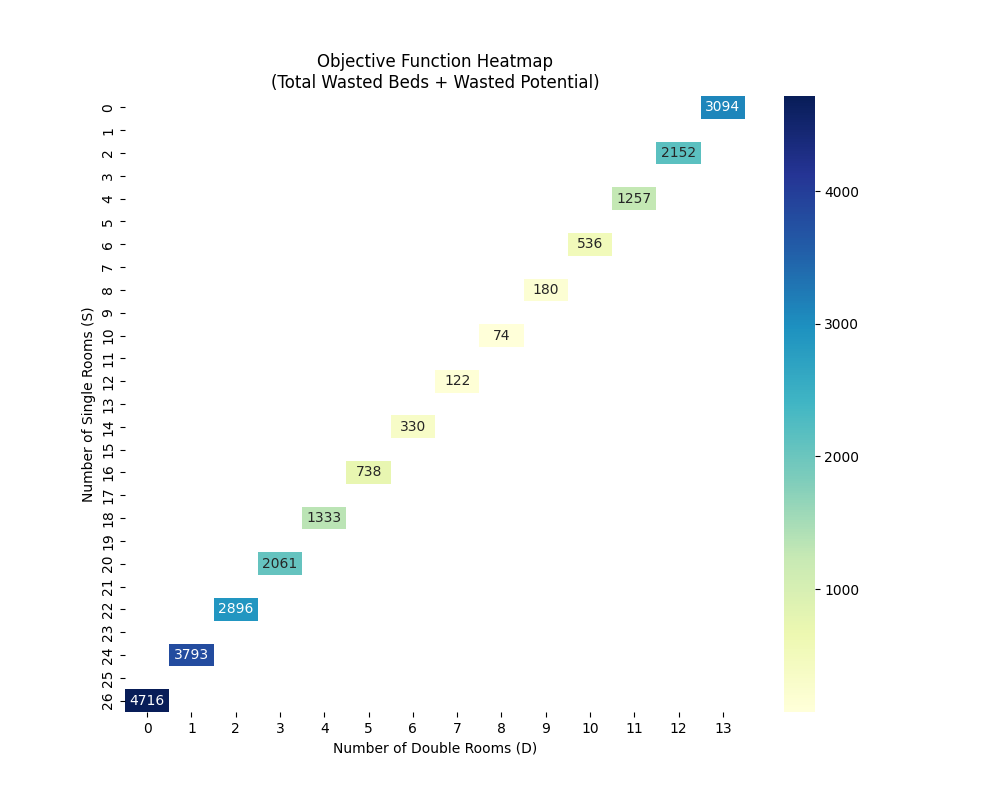
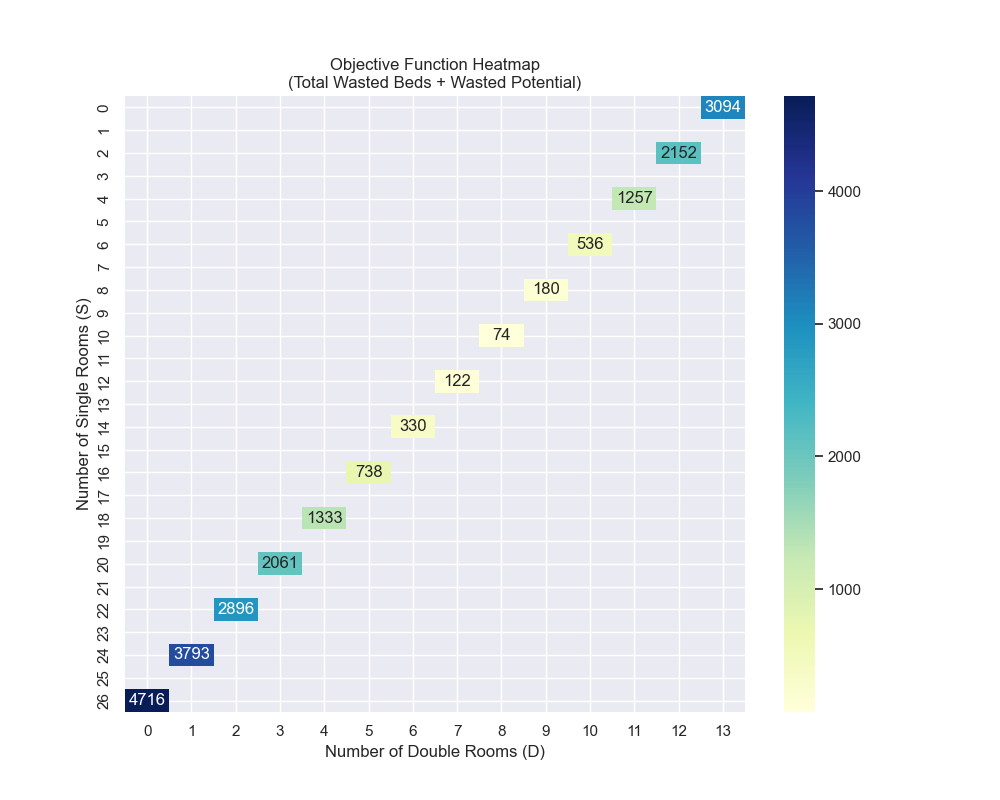
fixing labels, adding another plot to better show data wasted_patients_plot

diff --git a/optimizer_visualizations.py b/optimizer_visualizations.py
@@ -1,5 +1,9 @@
 import pandas as pd
 import numpy as np
+import seaborn as sns
+import matplotlib.pyplot as plt
+
+sns.set()
 
 # Load the historical data
 data_path = 'data/final_census_data.csv'
@@ -14,15 +18,18 @@ recent_year_data = data[data['Date'].dt.year.isin([2023, 2024])]
 single_rooms = np.arange(0, 27)
 double_rooms = np.arange(0, 14)
 
-# Initialize a matrix to store the objective function values
+# Initialize matrices to store the objective function values, singles in double, and doubles in single
 objective_values = np.full((len(single_rooms), len(double_rooms)), np.nan)
+total_singles_in_double_values = np.full((len(single_rooms), len(double_rooms)), np.nan)
+total_doubles_in_single_values = np.full((len(single_rooms), len(double_rooms)), np.nan)
 
-
-# Iterate through each configuration and calculate the objective function
+# Iterate through each configuration and calculate the objective function and inefficiencies
 for i, S in enumerate(single_rooms):
     for j, D in enumerate(double_rooms):
         if 2 * D + S == 26:  # Feasibility condition
-            total_wasted_beds = 0
+            total_waste = 0
+            total_singles_in_double = 0
+            total_doubles_in_single = 0
 
             for _, row in recent_year_data.iterrows():
                 single_room_patients = row['Total Single Room Patients']
@@ -34,54 +41,64 @@ for i, S in enumerate(single_rooms):
                 # Wasted potential double room space when double patients are too many
                 wasted_double_in_single = max(0, double_room_patients - 2 * D)
 
-                total_wasted_beds += wasted_single_in_double + wasted_double_in_single
+                # Total wasted single patients in double rooms
+                total_singles_in_double += wasted_single_in_double
 
-            # Objective function is total wasted beds
-            objective_values[i, j] = total_wasted_beds
+                # Total wasted double patients in single rooms
+                total_doubles_in_single += wasted_double_in_single
 
-import seaborn as sns
-import matplotlib.pyplot as plt
+                # Total waste = wasted single in double + wasted double in single
+                total_waste += wasted_single_in_double + wasted_double_in_single
 
-# Create the heatmap
+            # Store the total wasted beds, singles in double, and doubles in single
+            objective_values[i, j] = total_waste
+            total_singles_in_double_values[i, j] = total_singles_in_double
+            total_doubles_in_single_values[i, j] = total_doubles_in_single
+
+# Create a heatmap for the total wasted beds
 plt.figure(figsize=(10, 8))
 sns.heatmap(objective_values, annot=True, fmt=".0f", cmap="YlGnBu", xticklabels=double_rooms, yticklabels=single_rooms)
-
-# Add labels and title
 plt.title("Objective Function Heatmap\n(Total Wasted Beds + Wasted Potential)")
 plt.xlabel("Number of Double Rooms (D)")
 plt.ylabel("Number of Single Rooms (S)")
-
-# Save and show the plot
 plt.savefig('output/optimizer_heatmap.png')
-# plt.show()
 
-
-# Extract the relevant data from the heatmap
+# Extract configurations for single/double rooms and wasted beds
 configurations = [(S, D) for S in single_rooms for D in double_rooms if 2 * D + S == 26]
-wasted_beds = [objective_values[i, j] for i, S in enumerate(single_rooms) for j, D in enumerate(double_rooms) if 2 * D + S == 26]
+wasted_beds_space = [objective_values[i, j] for i, S in enumerate(single_rooms) for j, D in enumerate(double_rooms) if 2 * D + S == 26]
+total_singles_in_double_space = [total_singles_in_double_values[i, j] for i, S in enumerate(single_rooms) for j, D in enumerate(double_rooms) if 2 * D + S == 26]
+total_doubles_in_single_space = [total_doubles_in_single_values[i, j] for i, S in enumerate(single_rooms) for j, D in enumerate(double_rooms) if 2 * D + S == 26]
 
-# Create a bar chart
+# Create a bar chart for wasted beds
 plt.figure(figsize=(12, 6))
-plt.bar([f"S: {S}, D: {D}" for S, D in configurations], wasted_beds, color='skyblue')
+plt.bar([f"S: {S}, D: {D}" for S, D in configurations], wasted_beds_space, color='skyblue')
 plt.xticks(rotation=45, ha='right')
 plt.xlabel("Room Configurations (Single Rooms, Double Rooms)")
-plt.ylabel("Total Wasted Beds")
-plt.title("Wasted Beds vs. Room Configurations")
-# plt.show()
+plt.ylabel("Inefficiency (Wasted Beds + Wasted Potential)")
+plt.title("Inefficiency vs. Room Configurations")
 plt.savefig('output/optimizer_bar_chart.png')
 
-
 # Calculate efficiency for each configuration
-efficiency = [(26 - wb) / 26 for wb in wasted_beds]
+total_available_beds = len(recent_year_data) * 26
+efficiency = [(total_available_beds - wb) / total_available_beds for wb in wasted_beds_space]
 
-# Create a line plot
+# Create a line plot for efficiency
 plt.figure(figsize=(12, 6))
 plt.plot([f"S: {S}, D: {D}" for S, D in configurations], efficiency, marker='o', color='orange')
 plt.xticks(rotation=45, ha='right')
 plt.xlabel("Room Configurations (Single Rooms, Double Rooms)")
 plt.ylabel("Efficiency")
 plt.title("Efficiency vs. Room Configurations")
-# plt.show()
 plt.savefig('output/optimizer_efficiency_plot.png')
 
+# Create line plots for total singles in double and total doubles in single as a function of room configurations
+plt.figure(figsize=(12, 6))
+plt.plot([f"S: {S}, D: {D}" for S, D in configurations], total_singles_in_double_space, marker='o', label='Singles in Double', color='blue')
+plt.plot([f"S: {S}, D: {D}" for S, D in configurations], total_doubles_in_single_space, marker='o', label='Doubles in Single', color='red')
+plt.xticks(rotation=45, ha='right')
+plt.xlabel("Room Configurations (Single Rooms, Double Rooms)")
+plt.ylabel("Total Wasted Patients")
+plt.title("Wasted Singles in Double Rooms and Doubles in Single Rooms\nvs. Room Configurations")
+plt.legend()
+plt.savefig('output/wasted_patients_plot.png')
 
